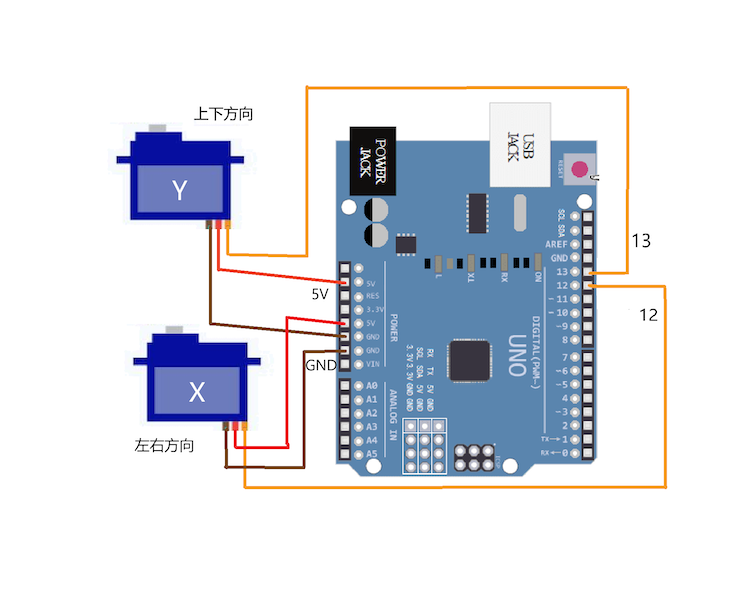
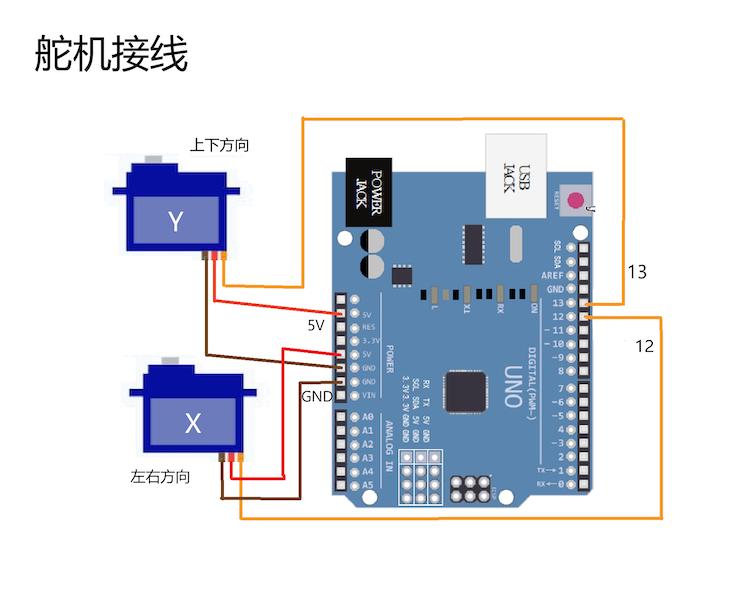
modified:   README.md 	modified:   images/servo.png

Changed region(s): [[0.156, 0.1246, 0.905, 0.8721], [0.0312, 0.0623, 0.2497, 0.1246]]

diff --git a/README.md b/README.md
@@ -8,10 +8,12 @@ Desk-Emoji is a truly open-source AI desktop robot featuring an emoji screen, a 
 
 ### Hardware
 
-* Assamble 2 axis servos:
-  ![img](images/servo.png "servo")
-* OLED display connection:
+* OLED screen connection:
   ![img](images/oled.png "oled")
+
+* Servos connection:
+  ![img](images/servo.png "servo")
+
 
 ### Software
 
